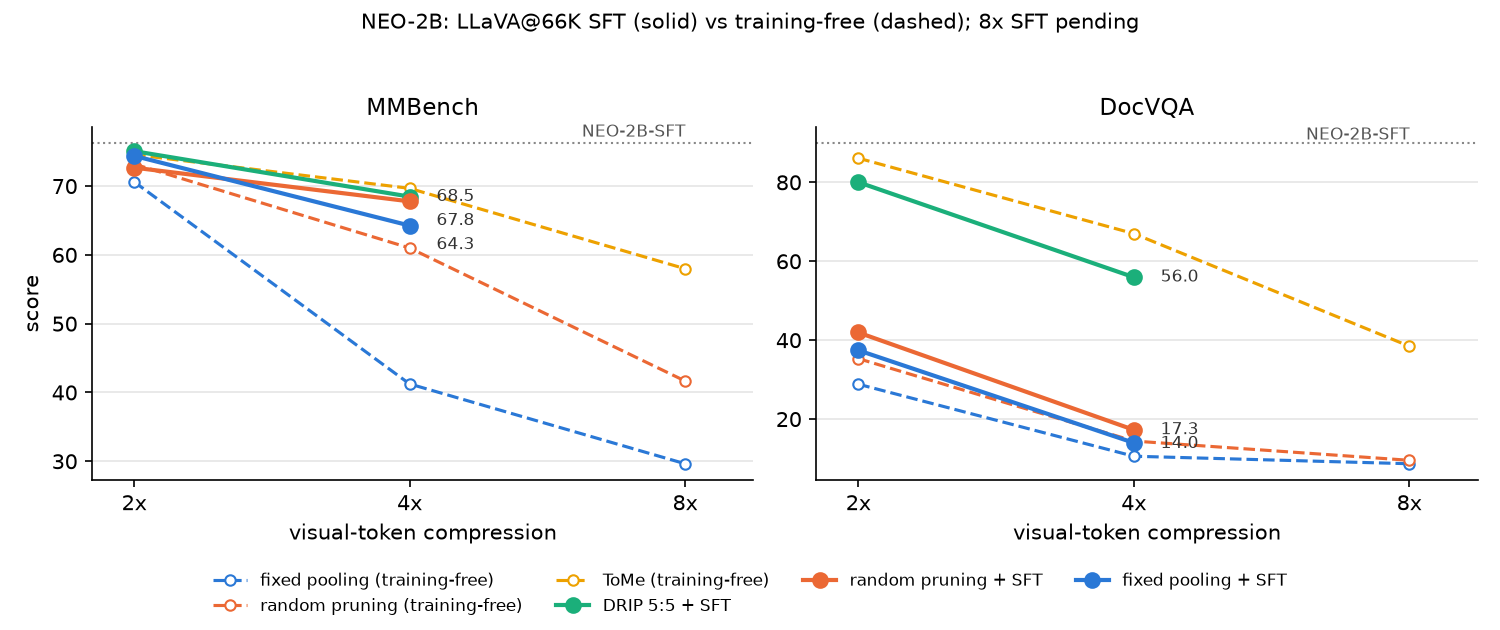
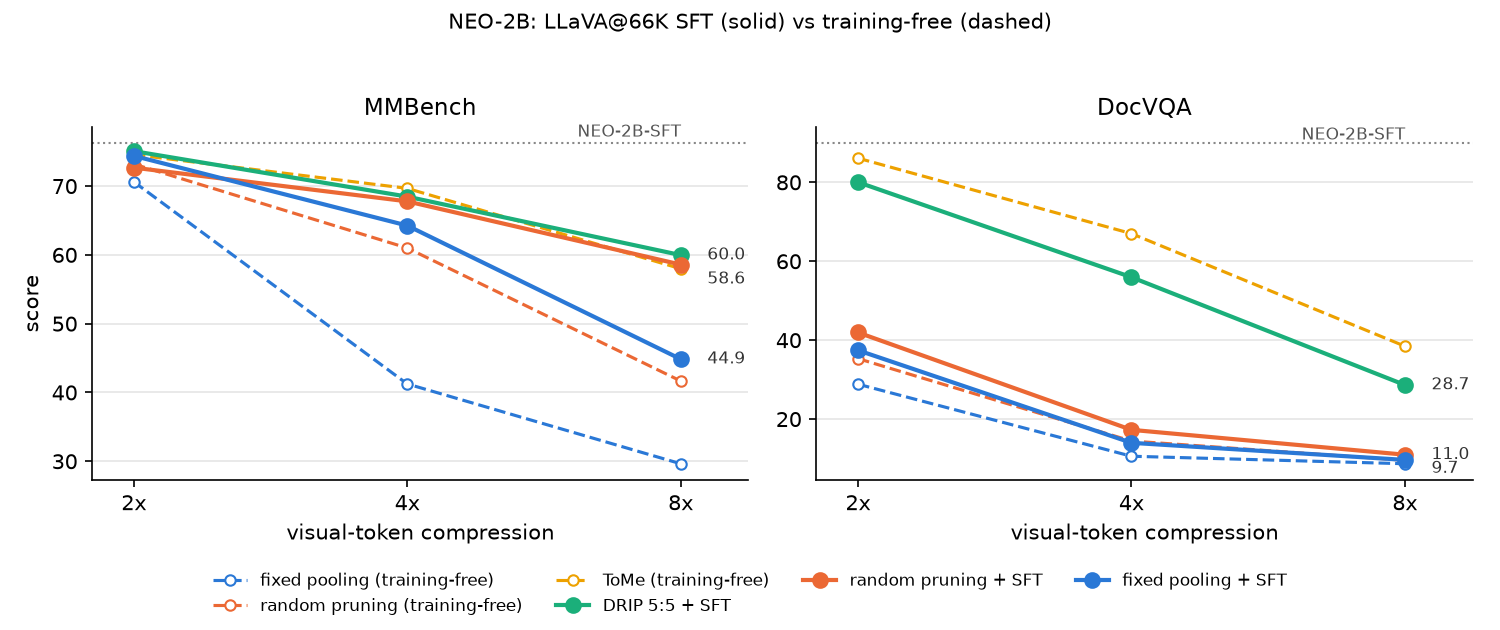
sft-4x8x: wake 22, e011 done (8x DocVQA 9.66/10.98/28.66, 9/9 hit), all six rows in, paused for user (item 4)

diff --git a/research/experiments/sft-4x8x/figures/plot_ratio.py b/research/experiments/sft-4x8x/figures/plot_ratio.py
@@ -48,7 +48,7 @@ for ax, m, base in zip(axes, ("MMBench", "DocVQA"), (76.20, 89.86)):
 axes[0].set_ylabel("score")
 h, l = axes[0].get_legend_handles_labels()
 fig.legend(h, l, loc="lower center", ncol=4, fontsize=8, frameon=False)
-fig.suptitle("NEO-2B: LLaVA@66K SFT (solid) vs training-free (dashed); 8x SFT pending", fontsize=10)
+fig.suptitle("NEO-2B: LLaVA@66K SFT (solid) vs training-free (dashed)", fontsize=10)
 fig.tight_layout(rect=(0, 0.1, 1, 0.95))
 fig.savefig(out)
 print(out)

diff --git a/research/experiments/sft-4x8x/RESULTS.md b/research/experiments/sft-4x8x/RESULTS.md
@@ -2,16 +2,16 @@
 
 Generated by research-results from 11 records. Do not edit by hand.
 
-| id | batch | parent | status | sha | gpu_hours | fixed_4x_s_per_step | random_4x_s_per_step | fixed_4x_loss_step3 | random_4x_loss_step3 | drip_4x | dripA_s_per_step | dripA_loss_step1 | dripA_loss_step2 | dripA_boundary_loss_step2 | dripB_resume | fixed4x_s_per_step | random4x_s_per_step | fixed4x_global_step | random4x_global_step | fixed4x_loss_first20 | fixed4x_loss_last20 | random4x_loss_first20 | random4x_loss_last20 | drip_resume | fixed_resume | lora_tensors_resumed | drip_global_step | fixed_global_step | drip_loss_step3 | drip_loss_step4 | drip_boundary_loss_step4 | fixed_loss_step4 | fixed_loss_step5 | drip4x_s1_steps | drip4x_s_per_step | drip4x_s2_s3 | drip4x_s4_ckpt | drip4x_s4_s_per_step | drip4x_s5_ckpt | drip4x_s5_s_per_step | drip4x_s6 | drip4x_global_step | drip4x_loss_first20 | drip4x_loss_last20 | drip4x_boundary_loss_max | drip4x_boundary_loss_last | fixed8x_s_per_step | drip8x_s_per_step | fixed8x_loss_step1 | fixed8x_loss_step2 | drip8x_loss_step1 | drip8x_loss_step2 | drip8x_boundary_loss_step2 | drip8x_grad_norm_step2 | steps_completed | drip8x_s1_ckpt | drip8x_s2_ckpt | drip8x_s2_s_per_step | drip8x_s3 | drip8x_s4_step | drip8x_s4_s_per_step | drip8x_final_step | drip8x_loss_first20 | drip8x_loss_last20 | drip8x_boundary_loss_first | drip8x_boundary_loss_last | random8x_s_per_step | fixed8x_s2_ckpt | random8x_s2_ckpt | fixed8x_s3_step | random8x_s3_step | s3_s_per_step | final_step | fixed8x_loss_first20 | fixed8x_loss_last20 | random8x_loss_first20 | random8x_loss_last20 | smoke_fixed4x_rwqa | fixed4x_MMBench | fixed4x_MME | fixed4x_MMMU | fixed4x_RWQA | fixed4x_OCRBench | fixed4x_ChartQA | random4x_MMBench | random4x_MME | random4x_MMMU | random4x_RWQA | random4x_OCRBench | random4x_ChartQA | drip4x_MMBench | drip4x_MME | drip4x_MMMU | drip4x_RWQA | fixed4x_TextVQA | random4x_TextVQA | drip4x_OCRBench | drip4x_ChartQA | drip4x_TextVQA | fixed4x_DocVQA | random4x_DocVQA | drip4x_DocVQA | hypothesis |
-|---|---|---|---|---|---|---|---|---|---|---|---|---|---|---|---|---|---|---|---|---|---|---|---|---|---|---|---|---|---|---|---|---|---|---|---|---|---|---|---|---|---|---|---|---|---|---|---|---|---|---|---|---|---|---|---|---|---|---|---|---|---|---|---|---|---|---|---|---|---|---|---|---|---|---|---|---|---|---|---|---|---|---|---|---|---|---|---|---|---|---|---|---|---|---|---|---|---|---|---|---|---|---|---|
-| e001 | b001 |  | failed | 9a659cf9974fc2023ff2aa8a52d84c7cbb5d041f | 0.2 | 87.3 | 88.2 | 1.3 | 1.158 | crashed_step1 |  |  |  |  |  |  |  |  |  |  |  |  |  |  |  |  |  |  |  |  |  |  |  |  |  |  |  |  |  |  |  |  |  |  |  |  |  |  |  |  |  |  |  |  |  |  |  |  |  |  |  |  |  |  |  |  |  |  |  |  |  |  |  |  |  |  |  |  |  |  |  |  |  |  |  |  |  |  |  |  |  |  |  |  |  |  |  |  |  |  |  |  | The new generic launcher `SFT_vtc.sh` trains fixed, random and DRIP at 4x through the same code path as the 2x |
-| e002 | b001 | e001 | failed | 3b0d6264941614ca898545a6d36c9d9c6d073fa4 | 0.15 |  |  |  |  |  | 94.6 | 1.219 | 1.092 | 0.0242 | crash |  |  |  |  |  |  |  |  |  |  |  |  |  |  |  |  |  |  |  |  |  |  |  |  |  |  |  |  |  |  |  |  |  |  |  |  |  |  |  |  |  |  |  |  |  |  |  |  |  |  |  |  |  |  |  |  |  |  |  |  |  |  |  |  |  |  |  |  |  |  |  |  |  |  |  |  |  |  |  |  |  |  |  |  |  |  |  | The e001 DRIP crash is only torch's Binomial argument validation rejecting the soft boundary count; with validation |
-| e003 | b002 | e001 | done | 3b0d6264941614ca898545a6d36c9d9c6d073fa4 | 24.83 |  |  |  |  |  |  |  |  |  |  | 84.3 | 84.8 | 488 | 488 | 1.198 | 0.942 | 1.083 | 0.911 |  |  |  |  |  |  |  |  |  |  |  |  |  |  |  |  |  |  |  |  |  |  |  |  |  |  |  |  |  |  |  |  |  |  |  |  |  |  |  |  |  |  |  |  |  |  |  |  |  |  |  |  |  |  |  |  |  |  |  |  |  |  |  |  |  |  |  |  |  |  |  |  |  |  |  |  |  |  |  | The 2x recipe (LoRA 2e-5, LLaVA@66K, 488 steps) trains fixed pooling and random pruning at 4x to completion through |
-| e004 | b003 | e002 | done | 063a171005b4317005c7d2e3a102cf6a54195780 | 0.23 |  |  |  |  |  |  |  |  |  |  |  |  |  |  |  |  |  |  | pass | pass | 480 | 4 | 5 | 1.21 | 1.051 | 0.0192 | 1.172 | 1.253 |  |  |  |  |  |  |  |  |  |  |  |  |  |  |  |  |  |  |  |  |  |  |  |  |  |  |  |  |  |  |  |  |  |  |  |  |  |  |  |  |  |  |  |  |  |  |  |  |  |  |  |  |  |  |  |  |  |  |  |  |  |  |  |  |  |  |  |  |  | The only thing between the existing smoke checkpoints and a working resume is the missing `transformers.utils.logging.in |
-| e005 | b004 | e004 | done | 063a171005b4317005c7d2e3a102cf6a54195780 | 12.57 |  |  |  |  |  |  |  |  |  |  |  |  |  |  |  |  |  |  |  |  |  |  |  |  |  |  |  |  | 160 | 88.5 | node_fault_a0233 | 320 | 85.5 | 470 | 87.2 | node_fault_a0362 | 488 | 1.11 | 0.928 | 0.0258 | 0.0035 |  |  |  |  |  |  |  |  |  |  |  |  |  |  |  |  |  |  |  |  |  |  |  |  |  |  |  |  |  |  |  |  |  |  |  |  |  |  |  |  |  |  |  |  |  |  |  |  |  |  |  |  |  |  |  |  | The 2x DRIP recipe (LoRA 2e-5, DRIP_LR 1e-3, temperature 0.1, LLaVA@66K, 488 steps) trains DRIP at 4x to completion |
-| e006 | b005 | e004 | done | 063a171005b4317005c7d2e3a102cf6a54195780 | 0.17 |  |  |  |  |  |  |  |  |  |  |  |  |  |  |  |  |  |  |  |  |  |  |  |  |  |  |  |  |  |  |  |  |  |  |  |  |  |  |  |  |  | 90.7 | 92 | 1.314 | 1.248 | 1.251 | 1.131 | 0.0633 | 12.03 |  |  |  |  |  |  |  |  |  |  |  |  |  |  |  |  |  |  |  |  |  |  |  |  |  |  |  |  |  |  |  |  |  |  |  |  |  |  |  |  |  |  |  |  |  |  |  |  | The launcher path validated at 4x (e001 fixed/random, e002/e004 DRIP) also works at 8x: RATIO=8 is only a different |
-| e007 | b006 | e006 | failed | ad844573c9f379466681b31976aeaa186a08260d | 0.06 |  |  |  |  |  |  |  |  |  |  |  |  |  |  |  |  |  |  |  |  |  |  |  |  |  |  |  |  |  |  |  |  |  |  |  |  |  |  |  |  |  |  |  |  |  |  |  |  |  | 0 |  |  |  |  |  |  |  |  |  |  |  |  |  |  |  |  |  |  |  |  |  |  |  |  |  |  |  |  |  |  |  |  |  |  |  |  |  |  |  |  |  |  |  |  |  |  |  | The 2x/4x DRIP recipe (LoRA 2e-5, DRIP_LR 1e-3, temperature 0.1, LLaVA@66K, 488 steps) trains DRIP at 8x to completion |
-| e008 | b006 | e007 | done | e7e47e4ee319b7e8873022b39913e0b183cfea0e | 12.52 |  |  |  |  |  |  |  |  |  |  |  |  |  |  |  |  |  |  |  |  |  |  |  |  |  |  |  |  |  |  |  |  |  |  |  |  |  |  |  |  |  |  | 88.7 |  |  |  |  |  |  |  | 160 | 310 | 87.3 | node_fault_a0362 | 475 | 86.1 | 488 | 1.197 | 1.022 | 0.0612 | 0.0032 |  |  |  |  |  |  |  |  |  |  |  |  |  |  |  |  |  |  |  |  |  |  |  |  |  |  |  |  |  |  |  |  |  |  |  |  | e007 failed only because node a0233's GPU refused a CUDA context; the same DRIP 8x chain with `--exclude=a0233` |
-| e009 | b007 | e006 | done | ee905adfeeaafa1d495fd1e659eb0b15b6aabbbc | 24.72 |  |  |  |  |  |  |  |  |  |  |  |  |  |  |  |  |  |  |  |  |  |  |  |  |  |  |  |  |  |  |  |  |  |  |  |  |  |  |  |  |  | 87.3 |  |  |  |  |  |  |  |  |  |  |  |  |  |  |  |  |  |  |  | 85.6 | 310 | 320 | 477 | 484 | 84.5/86.2 | 488/488 | 1.235 | 1.055 | 1.177 | 0.999 |  |  |  |  |  |  |  |  |  |  |  |  |  |  |  |  |  |  |  |  |  |  |  |  |  | The 2x/4x recipe (LoRA 2e-5, LLaVA@66K, 488 steps) trains fixed pooling and random pruning at 8x to completion through |
-| e010 | b008 | e003 | done | 8779b0d05c7c09c26a70cadfa4cf6f20da7eeec0 | 13.21 |  |  |  |  |  |  |  |  |  |  |  |  |  |  |  |  |  |  |  |  |  |  |  |  |  |  |  |  |  |  |  |  |  |  |  |  |  |  |  |  |  |  |  |  |  |  |  |  |  |  |  |  |  |  |  |  |  |  |  |  |  |  |  |  |  |  |  |  |  |  |  |  | 51.5 | 64.26 | 1349 | 44.44 | 51.5 | 3 | 21.32 | 67.78 | 1428 | 46.44 | 53.33 | 5.6 | 21.32 | 68.47 | 1445 | 44.67 | 54.51 | 15.68 | 18.01 | 11.6 | 44.08 | 40.28 | 13.99 | 17.28 | 55.96 | At 4x, LoRA SFT on LLaVA@66K recovers more general VQA than at 2x for fixed pooling and random pruning (more headroom: |
-| e011 | b009 | e010 | submitted | de28b438e7830a7901c01e76e3a5e07cb81f79b5 |  |  |  |  |  |  |  |  |  |  |  |  |  |  |  |  |  |  |  |  |  |  |  |  |  |  |  |  |  |  |  |  |  |  |  |  |  |  |  |  |  |  |  |  |  |  |  |  |  |  |  |  |  |  |  |  |  |  |  |  |  |  |  |  |  |  |  |  |  |  |  |  |  |  |  |  |  |  |  |  |  |  |  |  |  |  |  |  |  |  |  |  |  |  |  |  |  |  | At 8x, LoRA SFT on LLaVA@66K still recovers general VQA for fixed pooling and random pruning (the 4x partial cells show |
+| id | batch | parent | status | sha | gpu_hours | fixed_4x_s_per_step | random_4x_s_per_step | fixed_4x_loss_step3 | random_4x_loss_step3 | drip_4x | dripA_s_per_step | dripA_loss_step1 | dripA_loss_step2 | dripA_boundary_loss_step2 | dripB_resume | fixed4x_s_per_step | random4x_s_per_step | fixed4x_global_step | random4x_global_step | fixed4x_loss_first20 | fixed4x_loss_last20 | random4x_loss_first20 | random4x_loss_last20 | drip_resume | fixed_resume | lora_tensors_resumed | drip_global_step | fixed_global_step | drip_loss_step3 | drip_loss_step4 | drip_boundary_loss_step4 | fixed_loss_step4 | fixed_loss_step5 | drip4x_s1_steps | drip4x_s_per_step | drip4x_s2_s3 | drip4x_s4_ckpt | drip4x_s4_s_per_step | drip4x_s5_ckpt | drip4x_s5_s_per_step | drip4x_s6 | drip4x_global_step | drip4x_loss_first20 | drip4x_loss_last20 | drip4x_boundary_loss_max | drip4x_boundary_loss_last | fixed8x_s_per_step | drip8x_s_per_step | fixed8x_loss_step1 | fixed8x_loss_step2 | drip8x_loss_step1 | drip8x_loss_step2 | drip8x_boundary_loss_step2 | drip8x_grad_norm_step2 | steps_completed | drip8x_s1_ckpt | drip8x_s2_ckpt | drip8x_s2_s_per_step | drip8x_s3 | drip8x_s4_step | drip8x_s4_s_per_step | drip8x_final_step | drip8x_loss_first20 | drip8x_loss_last20 | drip8x_boundary_loss_first | drip8x_boundary_loss_last | random8x_s_per_step | fixed8x_s2_ckpt | random8x_s2_ckpt | fixed8x_s3_step | random8x_s3_step | s3_s_per_step | final_step | fixed8x_loss_first20 | fixed8x_loss_last20 | random8x_loss_first20 | random8x_loss_last20 | smoke_fixed4x_rwqa | fixed4x_MMBench | fixed4x_MME | fixed4x_MMMU | fixed4x_RWQA | fixed4x_OCRBench | fixed4x_ChartQA | random4x_MMBench | random4x_MME | random4x_MMMU | random4x_RWQA | random4x_OCRBench | random4x_ChartQA | drip4x_MMBench | drip4x_MME | drip4x_MMMU | drip4x_RWQA | fixed4x_TextVQA | random4x_TextVQA | drip4x_OCRBench | drip4x_ChartQA | drip4x_TextVQA | fixed4x_DocVQA | random4x_DocVQA | drip4x_DocVQA | fixed_sft_8x | random_sft_8x | drip_sft_8x | hypothesis |
+|---|---|---|---|---|---|---|---|---|---|---|---|---|---|---|---|---|---|---|---|---|---|---|---|---|---|---|---|---|---|---|---|---|---|---|---|---|---|---|---|---|---|---|---|---|---|---|---|---|---|---|---|---|---|---|---|---|---|---|---|---|---|---|---|---|---|---|---|---|---|---|---|---|---|---|---|---|---|---|---|---|---|---|---|---|---|---|---|---|---|---|---|---|---|---|---|---|---|---|---|---|---|---|---|---|---|---|
+| e001 | b001 |  | failed | 9a659cf9974fc2023ff2aa8a52d84c7cbb5d041f | 0.2 | 87.3 | 88.2 | 1.3 | 1.158 | crashed_step1 |  |  |  |  |  |  |  |  |  |  |  |  |  |  |  |  |  |  |  |  |  |  |  |  |  |  |  |  |  |  |  |  |  |  |  |  |  |  |  |  |  |  |  |  |  |  |  |  |  |  |  |  |  |  |  |  |  |  |  |  |  |  |  |  |  |  |  |  |  |  |  |  |  |  |  |  |  |  |  |  |  |  |  |  |  |  |  |  |  |  |  |  |  |  |  | The new generic launcher `SFT_vtc.sh` trains fixed, random and DRIP at 4x through the same code path as the 2x |
+| e002 | b001 | e001 | failed | 3b0d6264941614ca898545a6d36c9d9c6d073fa4 | 0.15 |  |  |  |  |  | 94.6 | 1.219 | 1.092 | 0.0242 | crash |  |  |  |  |  |  |  |  |  |  |  |  |  |  |  |  |  |  |  |  |  |  |  |  |  |  |  |  |  |  |  |  |  |  |  |  |  |  |  |  |  |  |  |  |  |  |  |  |  |  |  |  |  |  |  |  |  |  |  |  |  |  |  |  |  |  |  |  |  |  |  |  |  |  |  |  |  |  |  |  |  |  |  |  |  |  |  |  |  |  | The e001 DRIP crash is only torch's Binomial argument validation rejecting the soft boundary count; with validation |
+| e003 | b002 | e001 | done | 3b0d6264941614ca898545a6d36c9d9c6d073fa4 | 24.83 |  |  |  |  |  |  |  |  |  |  | 84.3 | 84.8 | 488 | 488 | 1.198 | 0.942 | 1.083 | 0.911 |  |  |  |  |  |  |  |  |  |  |  |  |  |  |  |  |  |  |  |  |  |  |  |  |  |  |  |  |  |  |  |  |  |  |  |  |  |  |  |  |  |  |  |  |  |  |  |  |  |  |  |  |  |  |  |  |  |  |  |  |  |  |  |  |  |  |  |  |  |  |  |  |  |  |  |  |  |  |  |  |  |  | The 2x recipe (LoRA 2e-5, LLaVA@66K, 488 steps) trains fixed pooling and random pruning at 4x to completion through |
+| e004 | b003 | e002 | done | 063a171005b4317005c7d2e3a102cf6a54195780 | 0.23 |  |  |  |  |  |  |  |  |  |  |  |  |  |  |  |  |  |  | pass | pass | 480 | 4 | 5 | 1.21 | 1.051 | 0.0192 | 1.172 | 1.253 |  |  |  |  |  |  |  |  |  |  |  |  |  |  |  |  |  |  |  |  |  |  |  |  |  |  |  |  |  |  |  |  |  |  |  |  |  |  |  |  |  |  |  |  |  |  |  |  |  |  |  |  |  |  |  |  |  |  |  |  |  |  |  |  |  |  |  |  |  |  |  |  | The only thing between the existing smoke checkpoints and a working resume is the missing `transformers.utils.logging.in |
+| e005 | b004 | e004 | done | 063a171005b4317005c7d2e3a102cf6a54195780 | 12.57 |  |  |  |  |  |  |  |  |  |  |  |  |  |  |  |  |  |  |  |  |  |  |  |  |  |  |  |  | 160 | 88.5 | node_fault_a0233 | 320 | 85.5 | 470 | 87.2 | node_fault_a0362 | 488 | 1.11 | 0.928 | 0.0258 | 0.0035 |  |  |  |  |  |  |  |  |  |  |  |  |  |  |  |  |  |  |  |  |  |  |  |  |  |  |  |  |  |  |  |  |  |  |  |  |  |  |  |  |  |  |  |  |  |  |  |  |  |  |  |  |  |  |  |  |  |  |  | The 2x DRIP recipe (LoRA 2e-5, DRIP_LR 1e-3, temperature 0.1, LLaVA@66K, 488 steps) trains DRIP at 4x to completion |
+| e006 | b005 | e004 | done | 063a171005b4317005c7d2e3a102cf6a54195780 | 0.17 |  |  |  |  |  |  |  |  |  |  |  |  |  |  |  |  |  |  |  |  |  |  |  |  |  |  |  |  |  |  |  |  |  |  |  |  |  |  |  |  |  | 90.7 | 92 | 1.314 | 1.248 | 1.251 | 1.131 | 0.0633 | 12.03 |  |  |  |  |  |  |  |  |  |  |  |  |  |  |  |  |  |  |  |  |  |  |  |  |  |  |  |  |  |  |  |  |  |  |  |  |  |  |  |  |  |  |  |  |  |  |  |  |  |  |  | The launcher path validated at 4x (e001 fixed/random, e002/e004 DRIP) also works at 8x: RATIO=8 is only a different |
+| e007 | b006 | e006 | failed | ad844573c9f379466681b31976aeaa186a08260d | 0.06 |  |  |  |  |  |  |  |  |  |  |  |  |  |  |  |  |  |  |  |  |  |  |  |  |  |  |  |  |  |  |  |  |  |  |  |  |  |  |  |  |  |  |  |  |  |  |  |  |  | 0 |  |  |  |  |  |  |  |  |  |  |  |  |  |  |  |  |  |  |  |  |  |  |  |  |  |  |  |  |  |  |  |  |  |  |  |  |  |  |  |  |  |  |  |  |  |  |  |  |  |  | The 2x/4x DRIP recipe (LoRA 2e-5, DRIP_LR 1e-3, temperature 0.1, LLaVA@66K, 488 steps) trains DRIP at 8x to completion |
+| e008 | b006 | e007 | done | e7e47e4ee319b7e8873022b39913e0b183cfea0e | 12.52 |  |  |  |  |  |  |  |  |  |  |  |  |  |  |  |  |  |  |  |  |  |  |  |  |  |  |  |  |  |  |  |  |  |  |  |  |  |  |  |  |  |  | 88.7 |  |  |  |  |  |  |  | 160 | 310 | 87.3 | node_fault_a0362 | 475 | 86.1 | 488 | 1.197 | 1.022 | 0.0612 | 0.0032 |  |  |  |  |  |  |  |  |  |  |  |  |  |  |  |  |  |  |  |  |  |  |  |  |  |  |  |  |  |  |  |  |  |  |  |  |  |  |  | e007 failed only because node a0233's GPU refused a CUDA context; the same DRIP 8x chain with `--exclude=a0233` |
+| e009 | b007 | e006 | done | ee905adfeeaafa1d495fd1e659eb0b15b6aabbbc | 24.72 |  |  |  |  |  |  |  |  |  |  |  |  |  |  |  |  |  |  |  |  |  |  |  |  |  |  |  |  |  |  |  |  |  |  |  |  |  |  |  |  |  | 87.3 |  |  |  |  |  |  |  |  |  |  |  |  |  |  |  |  |  |  |  | 85.6 | 310 | 320 | 477 | 484 | 84.5/86.2 | 488/488 | 1.235 | 1.055 | 1.177 | 0.999 |  |  |  |  |  |  |  |  |  |  |  |  |  |  |  |  |  |  |  |  |  |  |  |  |  |  |  |  | The 2x/4x recipe (LoRA 2e-5, LLaVA@66K, 488 steps) trains fixed pooling and random pruning at 8x to completion through |
+| e010 | b008 | e003 | done | 8779b0d05c7c09c26a70cadfa4cf6f20da7eeec0 | 13.21 |  |  |  |  |  |  |  |  |  |  |  |  |  |  |  |  |  |  |  |  |  |  |  |  |  |  |  |  |  |  |  |  |  |  |  |  |  |  |  |  |  |  |  |  |  |  |  |  |  |  |  |  |  |  |  |  |  |  |  |  |  |  |  |  |  |  |  |  |  |  |  |  | 51.5 | 64.26 | 1349 | 44.44 | 51.5 | 3 | 21.32 | 67.78 | 1428 | 46.44 | 53.33 | 5.6 | 21.32 | 68.47 | 1445 | 44.67 | 54.51 | 15.68 | 18.01 | 11.6 | 44.08 | 40.28 | 13.99 | 17.28 | 55.96 |  |  |  | At 4x, LoRA SFT on LLaVA@66K recovers more general VQA than at 2x for fixed pooling and random pruning (more headroom: |
+| e011 | b009 | e010 | done | de28b438e7830a7901c01e76e3a5e07cb81f79b5 | 13.03 |  |  |  |  |  |  |  |  |  |  |  |  |  |  |  |  |  |  |  |  |  |  |  |  |  |  |  |  |  |  |  |  |  |  |  |  |  |  |  |  |  |  |  |  |  |  |  |  |  |  |  |  |  |  |  |  |  |  |  |  |  |  |  |  |  |  |  |  |  |  |  |  |  |  |  |  |  |  |  |  |  |  |  |  |  |  |  |  |  |  |  |  |  |  |  |  |  | {'MMBench': 44.85, 'MME': 1034.16, 'MMMU': 41.78, 'RWQA': 47.06, 'TextVQA': 10.48, 'DocVQA': 9.66, 'OCRBench': 1.7, 'ChartQA': 13.28} | {'MMBench': 58.59, 'MME': 1228.18, 'MMMU': 45.0, 'RWQA': 47.71, 'TextVQA': 12.65, 'DocVQA': 10.98, 'OCRBench': 2.1, 'ChartQA': 15.84} | {'MMBench': 59.97, 'MME': 1265.78, 'MMMU': 43.33, 'RWQA': 49.93, 'TextVQA': 22.48, 'DocVQA': 28.66, 'OCRBench': 5.2, 'ChartQA': 23.72} | At 8x, LoRA SFT on LLaVA@66K still recovers general VQA for fixed pooling and random pruning (the 4x partial cells show |

diff --git a/research/experiments/sft-4x8x/e011.md b/research/experiments/sft-4x8x/e011.md
@@ -3,14 +3,14 @@ id: e011
 direction: sft-4x8x
 batch: b009
 parent: e010
-status: submitted
+status: done
 created: 2026-11-10T14:35:00
 sha: de28b438e7830a7901c01e76e3a5e07cb81f79b5
 cluster: ascend
 jobs: [8490212, 8490213]
 config: {script: scripts/eval_table2.sbatch, models: ["NEO-2B-SFT-OV-LLaVA-llava66k-Fixed-8x", "NEO-2B-SFT-OV-LLaVA-llava66k-Random-8x", "NEO-2B-SFT-OV-LLaVA-llava66k-DRIP-8x"], suites: [general, ocr], partition: nextgen, dependency: "afterok on final training segments 8489192 (fixed 8x s4), 8489195 (random 8x s4), 8489190 (DRIP 8x s5)", HF_HUB_OFFLINE: 1}
-metrics: {}
-gpu_hours: null
+metrics: {fixed_sft_8x: {MMBench: 44.85, MME: 1034.16, MMMU: 41.78, RWQA: 47.06, TextVQA: 10.48, DocVQA: 9.66, OCRBench: 1.7, ChartQA: 13.28}, random_sft_8x: {MMBench: 58.59, MME: 1228.18, MMMU: 45.00, RWQA: 47.71, TextVQA: 12.65, DocVQA: 10.98, OCRBench: 2.1, ChartQA: 15.84}, drip_sft_8x: {MMBench: 59.97, MME: 1265.78, MMMU: 43.33, RWQA: 49.93, TextVQA: 22.48, DocVQA: 28.66, OCRBench: 5.2, ChartQA: 23.72}}
+gpu_hours: 13.03
 ---
 ## Hypothesis
 At 8x, LoRA SFT on LLaVA@66K still recovers general VQA for fixed pooling and random pruning (the 4x partial cells show
@@ -89,8 +89,50 @@ Backlog item 2 numbers, confidence 0.6 each (hit = inside the band):
   flat at 8x as at 4x (+3.8 / +0.8). DRIP keeps a +9.8 TextVQA margin over random+SFT but sits 7.4 below ToMe (4x: -7.6).
   Only DocVQA x3 (8490213_{1,5,9}, ~1 h elapsed of 3 h) remain; rc=0 claim 21/21 so far.
 
+- 2026-11-10 20:10 (FINAL, 24/24 tasks rc=0; general 8490212 3.21 GPU-h, ocr 8490213 9.83 GPU-h, total 13.03; DocVQA
+  walltimes 89.6 / 91.9 / 107.6 min, under the 3 h limit). DocVQA from the run.py summary lines (val = Overall):
+
+  | row | MMBench | MME | MMMU | RWQA | TextVQA | DocVQA | OCRBench | ChartQA |
+  |---|---|---|---|---|---|---|---|---|
+  | fixed + SFT 8x | 44.85 | 1034.16 | 41.78 | 47.06 | 10.48 | 9.66 | 1.7 | 13.28 |
+  | fixed training-free 8x | 29.64 | 565.8 | 42.56 | 42.48 | 9.41 | 8.69 | 1.80 | 13.24 |
+  | random + SFT 8x | 58.59 | 1228.18 | 45.00 | 47.71 | 12.65 | 10.98 | 2.1 | 15.84 |
+  | random training-free 8x | 41.67 | 852.1 | 43.11 | 45.62 | 11.87 | 9.56 | 2.70 | 15.20 |
+  | DRIP + SFT 8x | 59.97 | 1265.78 | 43.33 | 49.93 | 22.48 | 28.66 | 5.2 | 23.72 |
+  | ToMe training-free 8x | 57.99 | 1151.1 | 43.78 | 51.37 | 29.90 | 38.48 | 6.80 | 48.56 |
+
+  Rows appended to `VLMEvalKit/vlmeval/results/training_based.csv` (sha de28b43); PNG `figures/score_vs_ratio.png` regenerated.
+
+  Prediction score: 9/9 HIT.
+  | claim (conf) | predicted | measured | |
+  |---|---|---|---|
+  | fixed+SFT MMBench (0.6) | 45 +/- 6 | 44.85 | HIT |
+  | fixed+SFT DocVQA (0.6) | < 15 | 9.66 | HIT |
+  | random+SFT MMBench (0.6) | 55 +/- 5 | 58.59 | HIT |
+  | random+SFT DocVQA (0.6) | < 15 | 10.98 | HIT |
+  | DRIP MMBench (0.6) | 60 +/- 5 | 59.97 | HIT |
+  | DRIP DocVQA (0.6) | 32 +/- 8 | 28.66 | HIT |
+  | OCRBench < 5 fixed/random (0.8) | < 5 | 1.7 / 2.1 | HIT |
+  | DRIP - random DocVQA > 10 (0.65) | > 10 | +17.68 | HIT |
+  | all tasks rc=0 (0.85) | 24/24 | 24/24 | HIT |
+  Nine hits at stated 0.6-0.85 confidence means the bands were wider than needed (underconfident); the "< 15" DocVQA
+  claims were near-certain given a training-free floor of 9 and a 4x SFT gain of +3.
+
 ## Interpretation
+All six rows of the direction now exist (2B, single seed, 488 steps each).
+(a) SFT gain on general VQA vs ratio (MMBench, SFT minus training-free): fixed +3.8 / +23.0 / +15.2 at 2x/4x/8x,
+random -0.5 / +6.8 / +16.9. The gain grows with headroom, then for fixed pooling shrinks at 8x (the adapter closes
+about a third of a 47-pt gap to the uncompressed 76.2, vs 2/3 of a 35-pt hole at 4x); random+SFT 8x (58.6) and DRIP 8x (60.0) land level with ToMe 8x
+(58.0). MMMU is flat everywhere (within 1.5 pts), so the recovery is perception, not reasoning.
+OCR does not move under SFT at any ratio: DocVQA gain fixed +8.6 / +3.4 / +1.0, random +6.6 / +2.8 / +1.4; at 8x
+TextVQA/ChartQA/OCRBench gains are within +/-1.1. SFT cannot restore glyph detail that pooling/pruning removed.
+(b) DRIP keeps an OCR edge over fixed/random+SFT at every ratio, but it narrows in absolute terms at 8x (DocVQA vs
+random+SFT +38.1 / +38.7 / +17.7) and DRIP stays below ToMe at every ratio (DocVQA -6.1 / -11.1 / -9.8; ChartQA
+-12.1 / -29.2 / -24.8; TextVQA -7.6 at 4x and 8x). So the training-based OCR conclusion of the 2x row ("DRIP fixes
+OCR, still below ToMe") holds at 4x/8x, with the gap to ToMe roughly doubling after 2x and then holding near 10 DocVQA.
+Backlog item 3 (DRIP below random+SFT on DocVQA) is not triggered at either ratio.
+Caveat: one seed per cell; MMBench/MMMU differences under ~2 pts are inside run noise (e.g. DRIP vs ToMe MMBench at 8x).
 
 ## Next
-With e010 + e011 done: `training_based.csv` rows, the PNG (score vs ratio, MMBench and DocVQA panels), and the backlog
-item 3 check (DRIP below random+SFT on DocVQA at any ratio -> temperature 0.5 rerun).
+Direction goal settled (all six rows, 8 benchmarks each). Item 3 not triggered. Item 4 (naive top-k delta for DRIP 4x/8x)
+needs a flag under `compressors/`, which the Constraints forbid: user decision. Rows for the tex: `training_based.csv`.

diff --git a/research/directions/sft-4x8x.md b/research/directions/sft-4x8x.md
@@ -5,14 +5,14 @@ title: Do the training-based 2x conclusions hold at 4x and 8x? (fixed pooling, r
 project: vtc
 type: direction
 cluster: ascend
-status: active
+status: paused
 wake: on_jobs
 budget_gpu_hours: 120
-spent_gpu_hours: 96.85
+spent_gpu_hours: 101.67
 max_jobs_in_flight: 12
-jobs:
-- 8490213
+jobs: []
 jobs_archived:
+- 8490213
 - 8490212
 - 8489190
 - 8489192
@@ -67,11 +67,11 @@ jobs_archived:
 - 8388119
 - 8388120
 - 8388121
-last_wake: '2026-11-10T19:00:01-05:00'
+last_wake: '2026-11-10T20:12:00-05:00'
 next_id: 12
 model: null
 effort: null
-wakes: 21
+wakes: 22
 ---
 # Do the training-based 2x conclusions hold at 4x and 8x?
 
@@ -180,3 +180,4 @@ collapses like fixed pooling. Strongest counter-argument: the 2x DRIP number may
 - 2026-11-10 wake 19: e011 12/24 8x eval tasks done (all rc=0): MME fixed/random/DRIP+SFT 1034 / 1228 / 1266 (tf 566 / 852, ToMe 1151), MMMU 41.8 / 45.0 / 43.3, RWQA 47.1 / 47.7 / 49.9, OCRBench 1.7 / 2.1 / 5.2 (ToMe 6.8; fixed/random under-5 claim HIT). SFT still recovers general VQA at 8x, OCR stays at the floor. MMBench x3 and TextVQA/DocVQA/ChartQA x3 still running, so neither array archived. Nothing submitted: item 3 waits on 8x DocVQA, item 4 still needs the user's decision (compressor flag forbidden by Constraints). 2 array ids in flight. spent 91.01 (sacct, finished; driver's 94.74 counted running time); projection +~6 e011 rest = ~97 of 120.
 - 2026-11-10 wake 20: e011 general array 8490212 DONE (12/12 rc=0, 3.21 GPU-h, archived). 8x MMBench fixed/random/DRIP+SFT 44.85 / 58.59 / 59.97 (tf 29.64 / 41.67, ToMe 57.99): all three bands HIT. ChartQA 13.28 / 15.84 / 23.72 (ToMe 48.56): OCR flat under SFT, DRIP gap to ToMe as at 4x. 18/24 tasks in; TextVQA + DocVQA x3 (8490213_{0,1,4,5,8,9}) still running. Nothing submitted: item 3 waits on 8x DocVQA, item 4 needs the user's decision (compressor flag forbidden by Constraints). PNG regenerated once 8x DocVQA is in. 1 array id in flight. spent 94.19 (sacct, finished; driver's 98.02 counted running time).
 - 2026-11-10 wake 21: e011 TextVQA 8x in (8490213_{0,4,8}, rc=0): fixed/random/DRIP+SFT 10.48 / 12.65 / 22.48 (tf 9.41 / 11.87, ToMe 29.90); OCR flat under SFT, DRIP +9.8 over random, -7.4 vs ToMe. 21/24 tasks done; only DocVQA x3 (8490213_{1,5,9}) running, so 8490213 not archived. Nothing submitted: item 3 waits on 8x DocVQA, item 4 needs the user's decision (compressor flag forbidden by Constraints). 1 array id in flight. spent 96.85 (sacct, finished; driver's 99.75 counted running time).
+- 2026-11-10 wake 22: e011 DONE (8490213 archived, 24/24 rc=0, 13.03 GPU-h). 8x DocVQA fixed/random/DRIP+SFT 9.66 / 10.98 / 28.66 (tf 8.69 / 9.56, ToMe 38.48); e011 9/9 claims HIT. All six rows complete in `training_based.csv` (4x sha 8779b0d, 8x de28b43), PNG regenerated. Answer: (a) SFT MMBench gain fixed +3.8/+23.0/+15.2, random -0.5/+6.8/+16.9 at 2x/4x/8x, OCR gain <= +1.4 DocVQA at 8x; (b) DRIP beats random+SFT on DocVQA at every ratio (+38.1/+38.7/+17.7) but stays below ToMe (-6.1/-11.1/-9.8). Item 3 not triggered. PAUSED: goal settled; the only remaining backlog item (4, naive top-k delta) needs a flag under `compressors/`, forbidden by Constraints, so it is the user's call. spent 101.67 of 120 (sacct, finished; e011 sum).
